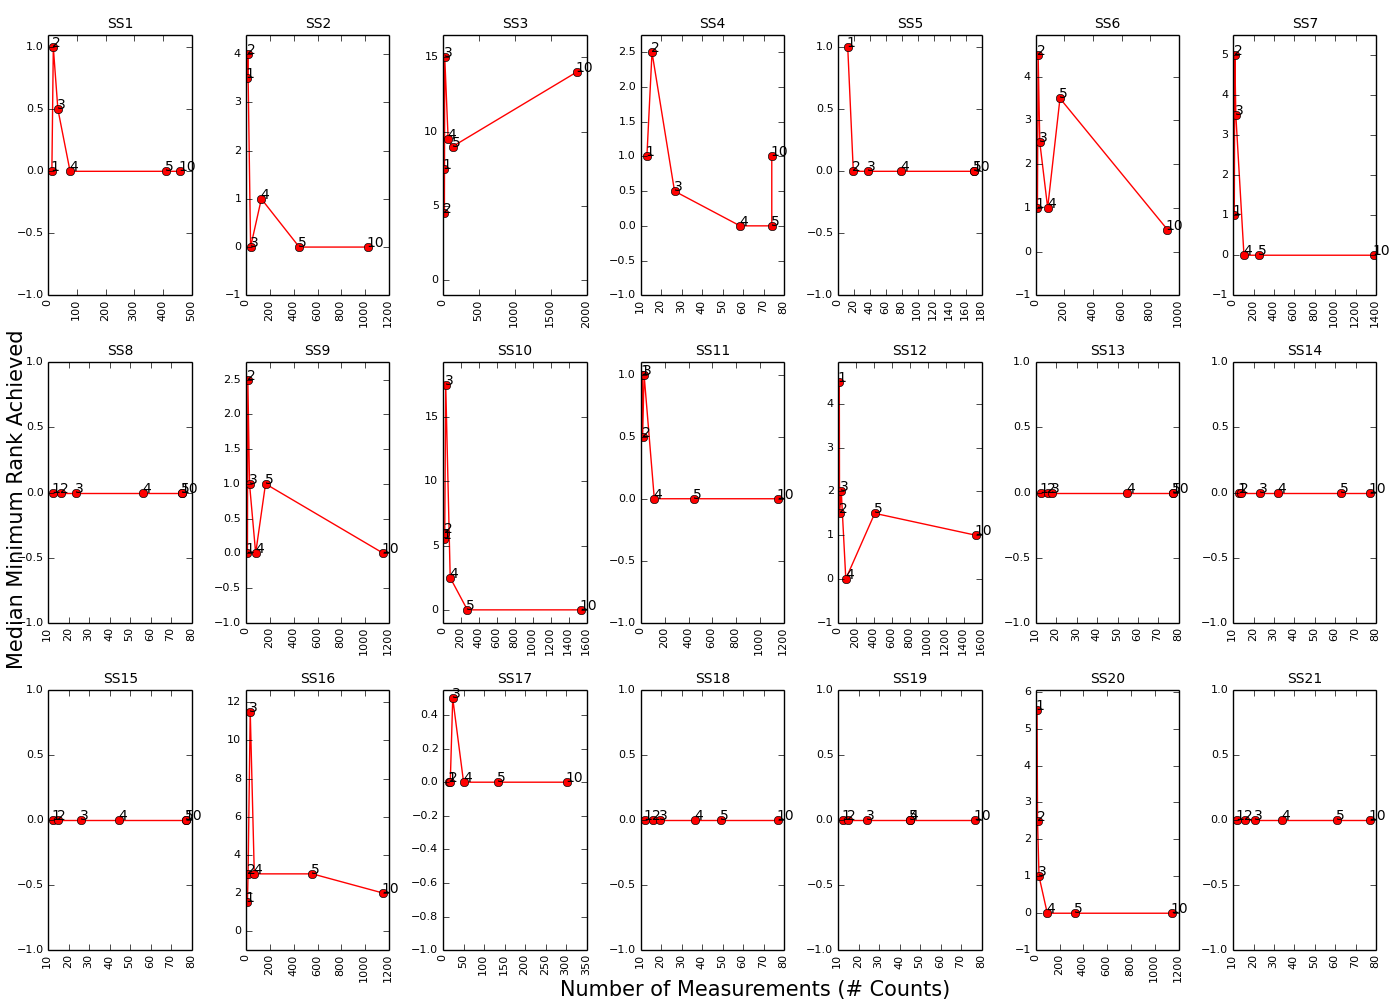
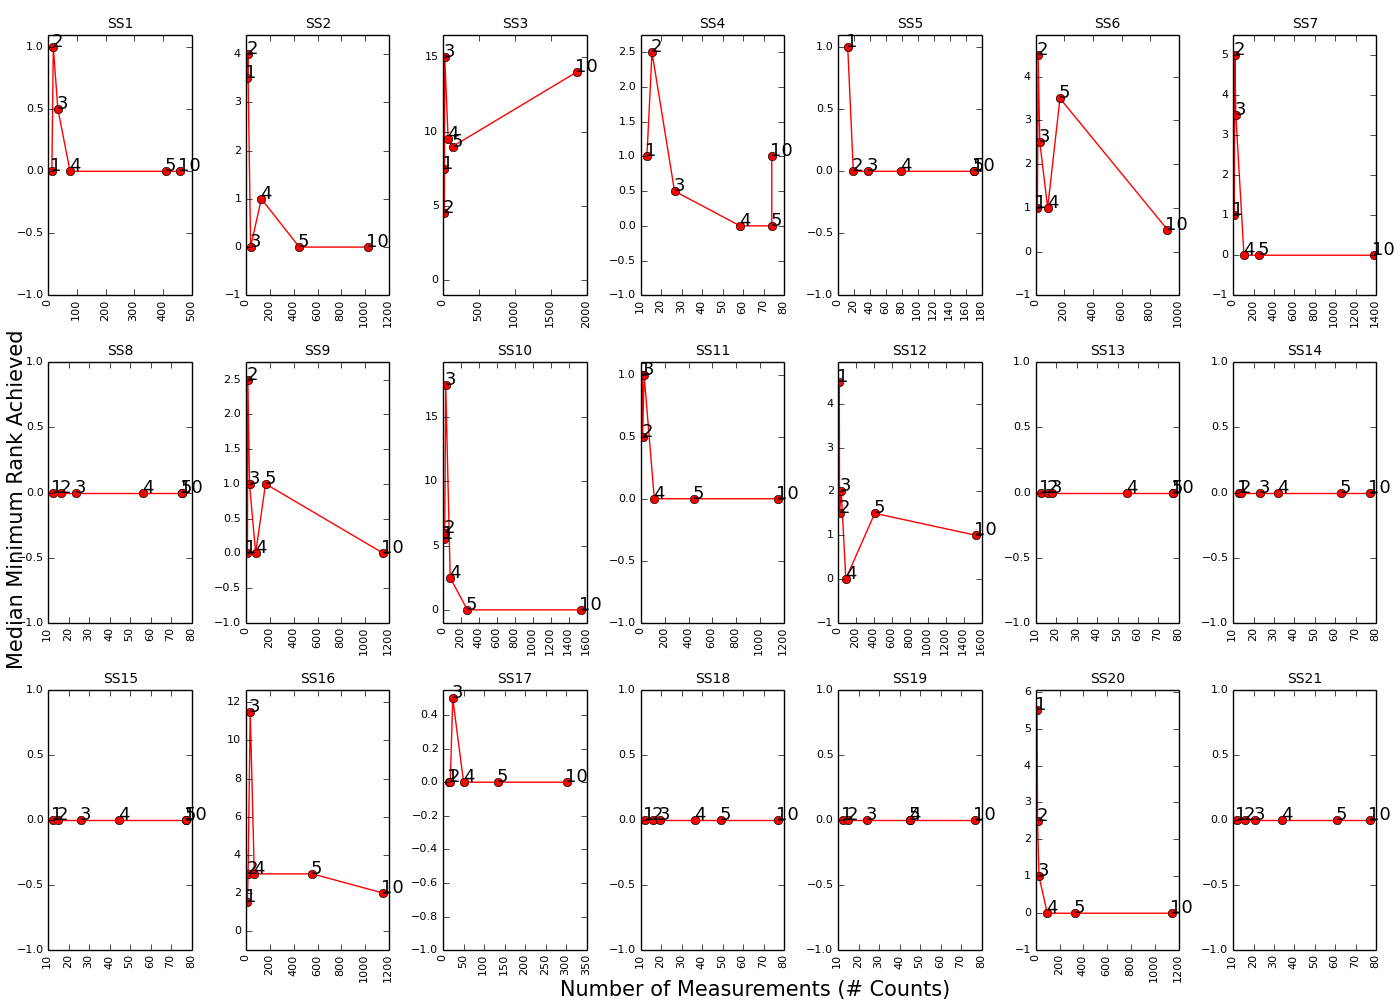
new

diff --git a/figure6c.py b/figure6c.py
@@ -1,0 +1,75 @@
+from __future__ import division
+import matplotlib.pyplot as plt
+data = [
+    # datasetname, dumbmre, dumbstd, dumbevals, randommre, randomstd, randomevals, atrimre, atristd, atrievals, accuracy from figure1 of the paper
+    ["./Data/Apache_AllMeasurements.csv", 10.7923400483, 4.30570224034, 29.5, 10.4947292635, 2.20430123136, 16.0, 7.54820448973, 1.02106706701, 49.0, 7.17],
+    ["./Data/BDBC_AllMeasurements.csv", 110.479335881, 187.802451244, 38.0, 11.8572934856, 4.30291195193, 42.5, 1.40528125434, 0.835513510745, 186.0, 0.48],
+    ["./Data/Dune.csv", 14.9476364347, 2.94470453023, 36.0, 10.4241382255, 0.852644275258, 99.0, 10.7840541533, 1.06376053277, 117.0, 6.25],
+    ["./Data/HSMGP_num.csv", 28.4925806894, 6.3190261939, 26.5, 10.2280499171, 0.462206395751, 444.0, 10.877402825, 0.742661331947, 383.0, 6.88],
+    ["./Data/SQL_AllMeasurements.csv", 5.86748929191, 0.484176841033, 22.0, 6.13162555204, 0.841248582473, 10.0, 5.47668186009, 0.326518039763, 66.0, 4.41],
+    ["./Data/WGet.csv", 9.67864308777, 11.9126425088, 27.0, 11.2691693847, 10.6807762614, 16.5, 12.1150493787, 12.0269102756, 23.0, 4.71],
+    ["./Data/X264_AllMeasurements.csv", 6.43736284941, 4.22374067851, 31.5, 9.8685240802, 1.42535845389, 12.5, 0.751253662102, 0.187911591044, 151.0, 0.19],
+    ["./Data/lrzip.csv", 95.3716768331, 184.552495732, 28.0, 12.9970921642, 4.34355122863, 87.5, 24.5860492819, 9.95373861074, 49.0, 6.07],
+    ["./Data/rs-6d-c3_obj1.csv", 421.042970956, 522.879249452, 32.0, 13.7337428323, 8.5542189313, 599.5, 12.1311203278, 3.82724520753, 678.0, 8.4],
+    ["./Data/rs-6d-c3_obj2.csv", 3650.66714862, 8035.48329532, 27.5, 13.5995547003, 5.83251455828, 687.5, 11.7792618959, 5.9591126095, 835.0, 9.01],
+    ["./Data/sol-6d-c2-obj1.csv", 643.593480935, 1743.01883524, 37.0, 43.6706927286, 22.377177188, 577.0, 59.6853689508, 32.0536509917, 188.0, 38.08],
+    ["./Data/sol-6d-c2-obj2.csv", 2653.46711207, 3944.90370138, 33.5, 80.6249317966, 23.9129599203, 576.0, 153.869243982, 107.110325652, 251.0, 76.52],
+    # ["./Data/sort_256_obj2.csv", 11.5712032183, 3.87771922132, 25.5, 10.0586679798, 2.44405242568, 26.0, 20.862548876, 3.74071290731, 4.0, 6.79],
+    ["./Data/wc+rs-3d-c4-obj1.csv", 34.8070233671, 28.5367725653, 23.5, 17.6727526682, 6.0489703848, 43.0, 19.3442173065, 4.76740956441, 28.0, 10.46],
+    ["./Data/wc+rs-3d-c4-obj2.csv", 4219.83055425, 17355.9942052, 19.0, 105.583909043, 129.957739811, 43.0, 232.074858955, 518.975346651, 45.0, 76.55],
+    ["./Data/wc+sol-3d-c4-obj1.csv", 37.1469049896, 25.4539940247, 26.0, 20.8223753716, 12.4935049708, 43.0, 27.8280265354, 15.9387424543, 28.0, 12.36],
+    ["./Data/wc+sol-3d-c4-obj2.csv", 3731.3645478, 8159.94720512, 21.0, 138.098828117, 160.052893102, 43.0, 50.5793154978, 62.3850186383, 56.0, 46.08],
+    ["./Data/wc+wc-3d-c4-obj1.csv", 31.6497529061, 30.7841955488, 26.0, 18.7216467377, 7.13603475529, 43.0, 26.8501276869, 11.9082288625, 27.0, 15.9],
+    ["./Data/wc+wc-3d-c4-obj2.csv", 3159.59661431, 11636.1618333, 23.0, 93.9384111155, 91.27189707, 43.0, 90, 0.0, 48, 48.75],
+    ["./Data/wc-3d-c4_obj2.csv", 12402.4561374, 31085.8027157, 28.5, 52.5777728899, 42.782323966, 155.0, 895.991096589, 2555.03744773, 59.0, 44.45],
+    ["./Data/wc-6d-c1-obj1.csv", 141.305549567, 117.172292763, 26.5, 10.8449550879, 1.44458681925, 388.5, 13.1048972691, 3.33600531343, 361.0, 7.44],
+    ["./Data/wc-6d-c1-obj2.csv", 690.812872709, 2068.20619916, 28.0, 10.4653064851, 0.63580925096, 336.0, 20.5970699707, 7.97878382382, 125.0, 8.47],
+
+]
+
+import numpy as np
+import matplotlib.pyplot as plt
+data = sorted(data, key=lambda x: x[-1])
+N = len(data)
+dumb_evals = [d[3] for d in data]
+random_evals = [d[6] for d in data]
+atri_evals = [d[9] for d in data]
+
+# converting to ratios
+dumb_evals = [(d/proj)*100 for d, proj in zip(dumb_evals, atri_evals)]
+random_evals = [(d/proj)*100 for d, proj in zip(random_evals, atri_evals)]
+atri_evals = [100 for _ in atri_evals]
+
+space = 5
+ind = np.arange(space, space*(len(data)+1), space)  # the x locations for the groups
+width = 1.5        # the width of the bars
+
+fig, ax = plt.subplots()
+ax.plot([i for i in xrange(3, 110)], [100 for _ in xrange(3, 110)], linestyle='--', color='black', label='Projective Sampling')
+rects1 = ax.bar(ind, dumb_evals, width, color='#f0f0f0', label='Rank-based')
+
+
+rects2 = ax.bar(ind + 1 * width, random_evals, width, color='#bdbdbd', label='Progessive Sampling')
+
+
+# rects3 = ax.bar(ind + 2 * width, atri_evals, width, color='#636363', label='Projective Sampling')
+
+ax.set_ylabel('Evaluations as % of Projective Sampling')
+# ax.set_title('Scores by group and gender')
+
+ax.set_xticks(ind + 2*width / 2)
+ax.set_xticklabels(['SS'+str(x+1) for x in xrange(len(data))], rotation='vertical')
+
+ax.set_xlim(3, 110)
+# ax.set_ylim(1, 1000)
+
+# plt.legend(loc='upper center', bbox_to_anchor=(0.5, 1.1), ncol=3, fancybox=True, frameon=False)
+
+handles, labels = ax.get_legend_handles_labels()
+print handles
+print labels
+plt.legend([handles[1], handles[2], handles[0]], [labels[1], labels[2], labels[0]], bbox_to_anchor=(0.85, 1.1), ncol=3, fancybox=True, frameon=False)
+
+fig.set_size_inches(14, 5)
+# plt.show()
+plt.savefig('figure6c.png', bbox_inches='tight')

diff --git a/parameter_tuning/process_subset.py b/parameter_tuning/process_subset.py
@@ -65,11 +65,11 @@ def average_score(result):
     import matplotlib.pyplot as plt
 
     plt.plot(xaxis, yaxis, color='r', marker='o')
-    plt.annotate('lives='+str(2), (20, 0.75), fontsize=10)
-    plt.annotate('lives='+str(3), (29, 0.50), fontsize=10)
-    plt.annotate('lives='+str(4), (70, 0.021), fontsize=10)
-    plt.annotate('lives='+str(5), (150, 0.021), fontsize=10)
-    plt.annotate('lives='+str(10), (360, 0.021), fontsize=10)
+    plt.annotate('lives='+str(2), (21, 0.75), fontsize=12)
+    plt.annotate('lives='+str(3), (32, 0.50), fontsize=12)
+    plt.annotate('lives='+str(4), (70, 0.021), fontsize=12)
+    plt.annotate('lives='+str(5), (150, 0.021), fontsize=12)
+    plt.annotate('lives='+str(10), (350, 0.021), fontsize=12)
 
     plt.xlabel('Number of Measurements (# counts)')
     plt.ylabel('Median Minimum Rank Found')

diff --git a/parameter_tuning/process.py b/parameter_tuning/process.py
@@ -76,7 +76,7 @@ def draw_fig(result):
     for i in xrange(3):
         for j in xrange(7):
             for cnt, txt in enumerate([1, 2, 3,4 ,5 , 10]):
-                ax[i][j].annotate(str(txt), (ret_min_rank(result[name_mapping['SS' + str(count)]])[cnt], ret_min_eval(result[name_mapping['SS' + str(count)]])[cnt]), fontsize=10)
+                ax[i][j].annotate(str(txt), (ret_min_rank(result[name_mapping['SS' + str(count)]])[cnt], ret_min_eval(result[name_mapping['SS' + str(count)]])[cnt]), fontsize=13)
             ax[i][j].set_title('SS' + str(count), fontsize=10)
 
 

diff --git a/discussion1.py b/discussion1.py
@@ -161,7 +161,7 @@ def draw_fig():
 
     import matplotlib.pyplot as plt
     plt.plot(x, y, c='r')
-    plt.xlabel("Size of the training set")
+    plt.xlabel("Size of the Training Set")
     plt.ylabel("Pearsson's Correlation")
     # plt.title("Apac")
     plt.savefig('figure7.eps')
